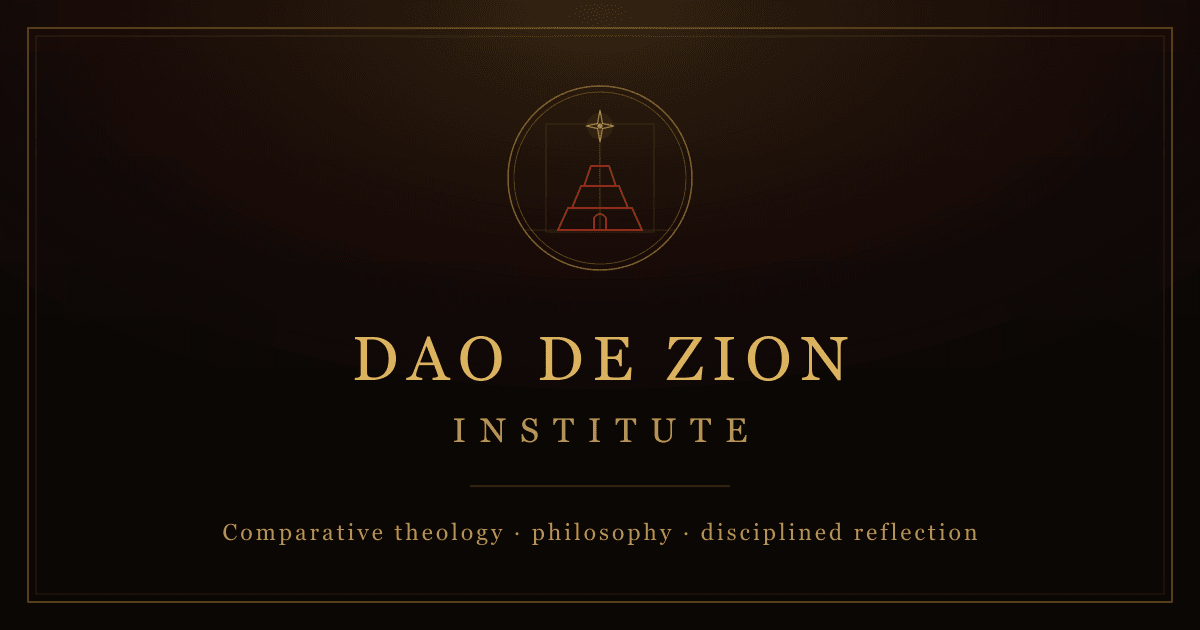
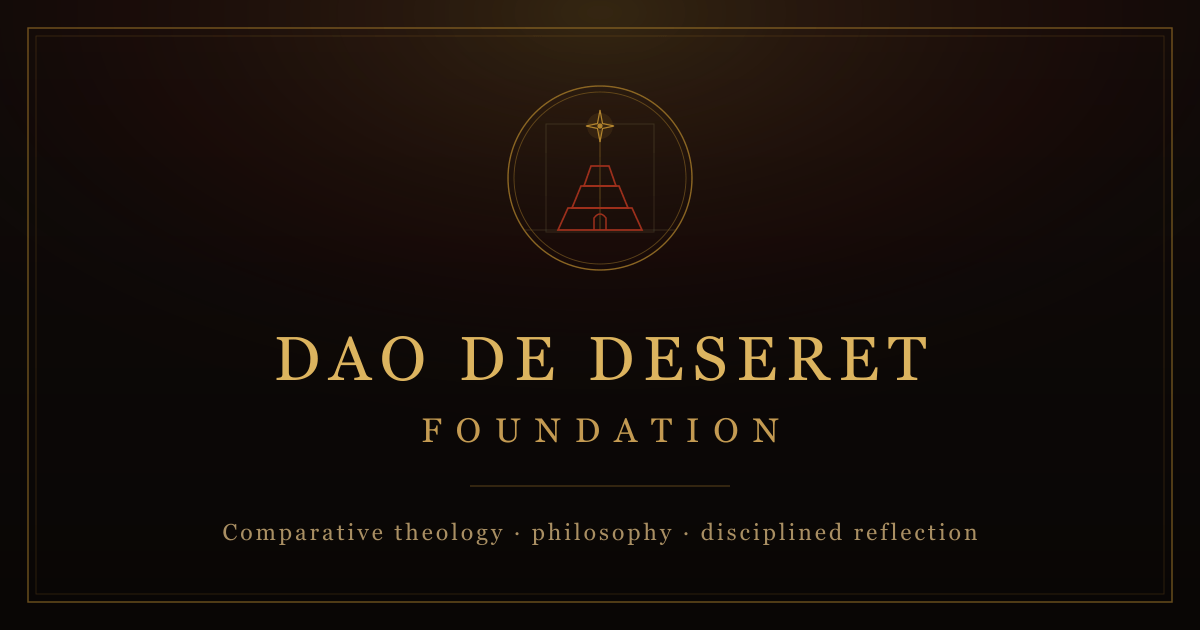
Rename to Dao De Deseret Foundation; Zion path → Deseret
- Site name: Dao De Zion Institute → Dao De Deseret Foundation (nav,
  footer, titles, meta, admin, favicon, OG image)
- Third path Zion → Deseret (/deseret); /zion and /zion/<slug> 301 redirect
- Lodge of Zion → Lodge of Deseret; record prefix LOZ- → LOD-
- Add Sister Bodies section and footer line linking the Dao De Deseret
  Research Institute and Valence Journal

Changed region(s): [[0.2158, 0.5127, 0.7708, 0.6032], [0.3392, 0.6635, 0.6475, 0.7238]]

diff --git a/src/styles/global.css b/src/styles/global.css
@@ -1,5 +1,5 @@
 /* =========================================
-   DAO DE ZION INSTITUTE
+   DAO DE DESERET FOUNDATION
    FULL SITE STYLESHEET
    ANALECTS / LACQUER / VERMILION VERSION
 ========================================= */
@@ -1137,6 +1137,23 @@ h3 {
   color: rgba(225, 207, 179, 0.5);
   font-size: 0.86rem;
   letter-spacing: 0.04em;
+}
+
+.site-footer .footer-sister {
+  margin-top: -0.4rem;
+  font-size: 0.8rem;
+  color: rgba(225, 207, 179, 0.5);
+}
+
+.site-footer .footer-sister a {
+  color: rgba(225, 207, 179, 0.75);
+  text-decoration: underline;
+  text-decoration-color: rgba(179, 133, 47, 0.4);
+  text-underline-offset: 0.18em;
+}
+
+.site-footer .footer-sister a:hover {
+  color: var(--gold);
 }
 
 

diff --git a/src/content.config.ts b/src/content.config.ts
@@ -1,7 +1,7 @@
 // ──────────────────────────────────────────────────────────────────────────────
 // Content collections.
 //
-// `sessions` — the Lodge of Zion meeting register. One markdown file per
+// `sessions` — the Lodge of Deseret meeting register. One markdown file per
 // gathering: typed frontmatter (date, location, attendees, topic, filed) plus
 // the proceedings as the markdown body. The public Lodge page renders these
 // server-side at build; the /admin editor creates and edits them by committing

diff --git a/src/pages/zion/[slug].ts b/src/pages/zion/[slug].ts
@@ -1,0 +1,9 @@
+// The third path was renamed Zion → Deseret. Old per-text links
+// (/zion/<slug>) 301 to their new home; /zion itself is a static
+// redirect in astro.config.mjs.
+import type { APIRoute } from 'astro'
+
+export const prerender = false
+
+export const GET: APIRoute = ({ params, redirect }) =>
+  redirect(`/deseret/${params.slug}`, 301)

diff --git a/public/lodge-register.js b/public/lodge-register.js
@@ -1,5 +1,5 @@
 /*
-  LODGE OF ZION — UPCOMING SESSION + RSVP
+  LODGE OF DESERET — UPCOMING SESSION + RSVP
   ---------------------------------------
   The meeting register (archive of past proceedings) is rendered server-side on
   the Lodge page from the `sessions` content collection.
